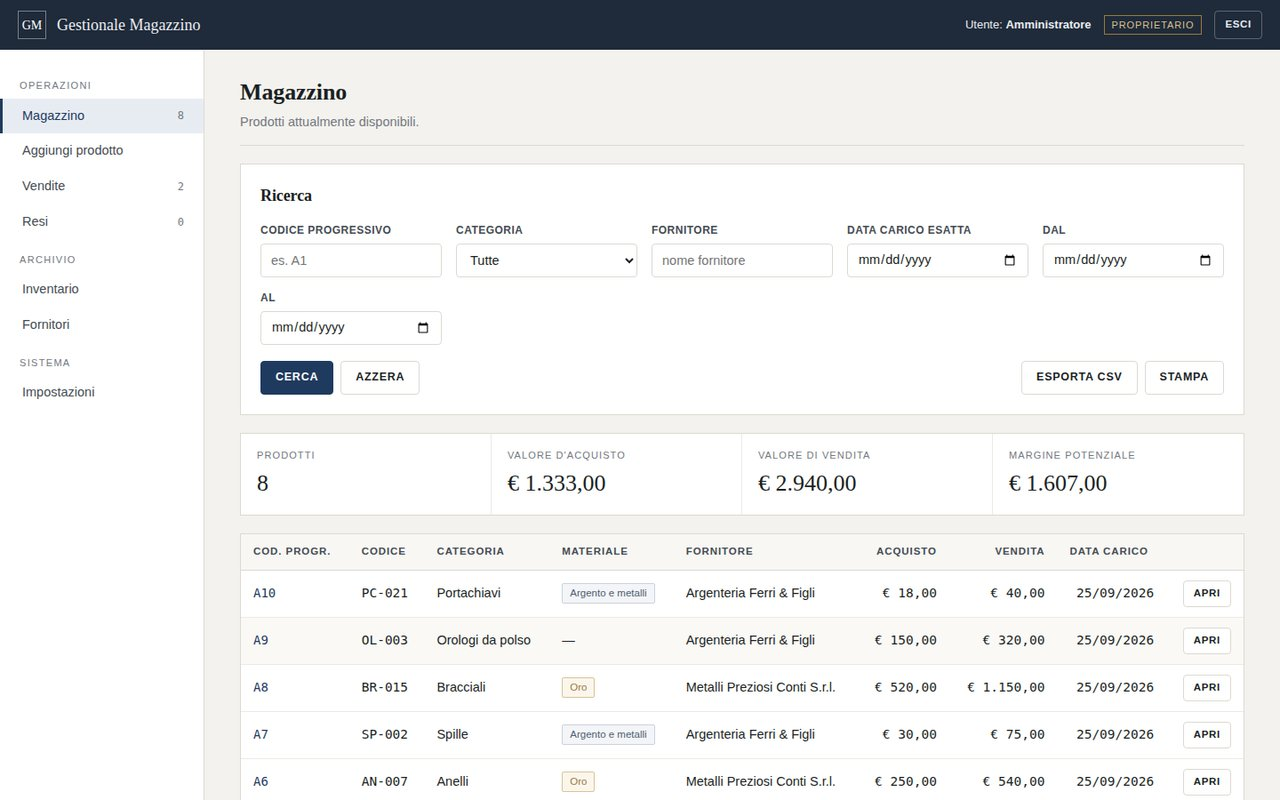
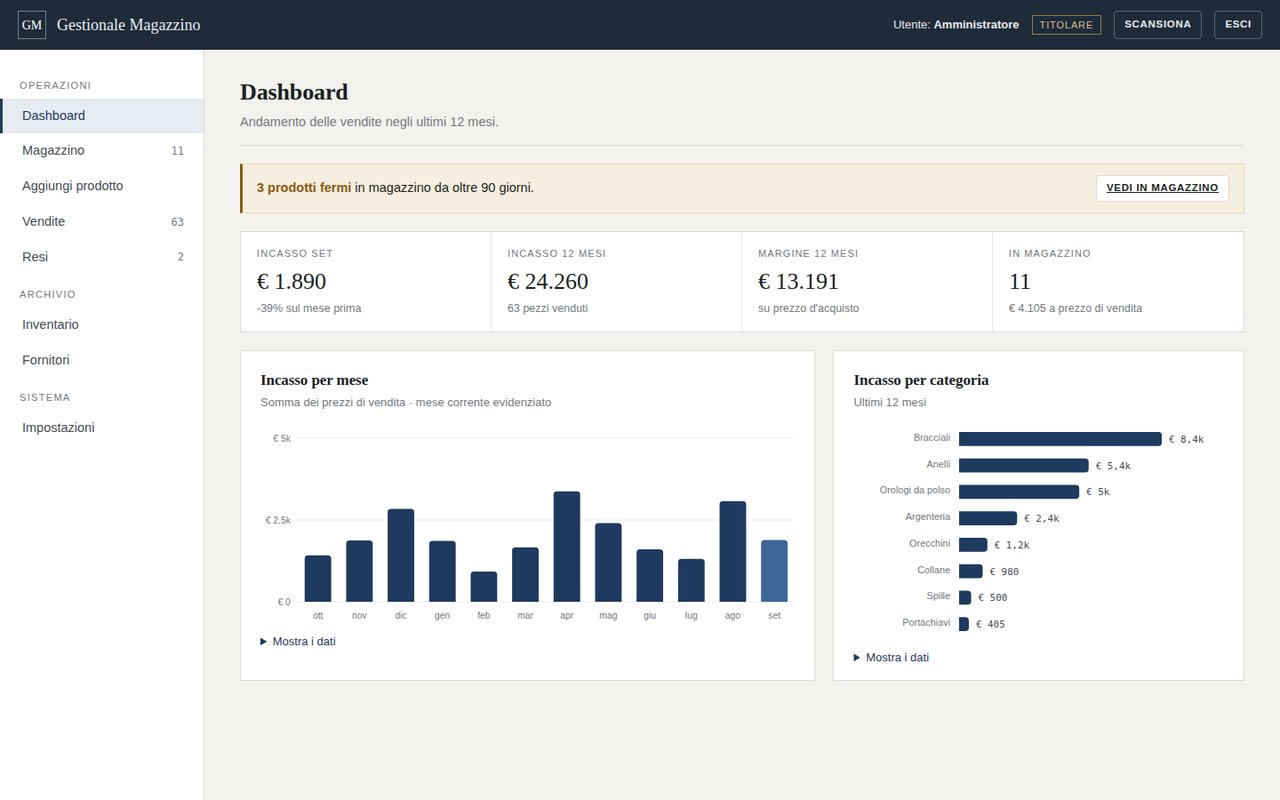
Gestionale: ruoli, dashboard, scanner, etichette e avvisi prodotti fermi
- Più utenti: Titolare e Commesso (il commesso non vede prezzi
  d'acquisto e margini, non accede ad archivio e impostazioni)
- Dashboard con incasso per mese e per categoria (SVG, tooltip, tabella dati)
- Scanner da fotocamera (BarcodeDetector o ZXing) e ricerca manuale/lettore USB
- Etichette Code 128 stampabili da magazzino, scheda prodotto e carico
- Avviso e filtro per i prodotti fermi, soglia configurabile
- Dati demo con un anno di vendite (nuova chiave gm-db-v2)

Claude-Session: https://claude.ai/code/session_01CdESJHGKoZf9CCpsGBDFzX

diff --git a/index.html b/index.html
@@ -551,7 +551,7 @@ const PROJECTS = [
     titolo: "Gestionale Magazzino",
     tipo: "Gestionale",
     anno: 2026,
-    descrizione: "Demo funzionante: carico prodotti con numerazione progressiva, vendite, resi, inventari, fornitori, export CSV, stampa e backup. Dati salvati nel browser.",
+    descrizione: "Demo funzionante: dashboard vendite, ruoli titolare/commesso, scanner di codici a barre, stampa etichette, avvisi sui prodotti fermi, vendite, resi, inventari e fornitori. Dati salvati nel browser.",
     stack: ["HTML", "CSS", "JavaScript"],
     immagine: "img/gestionale.jpg",
     link: "progetti/gestionale/"
